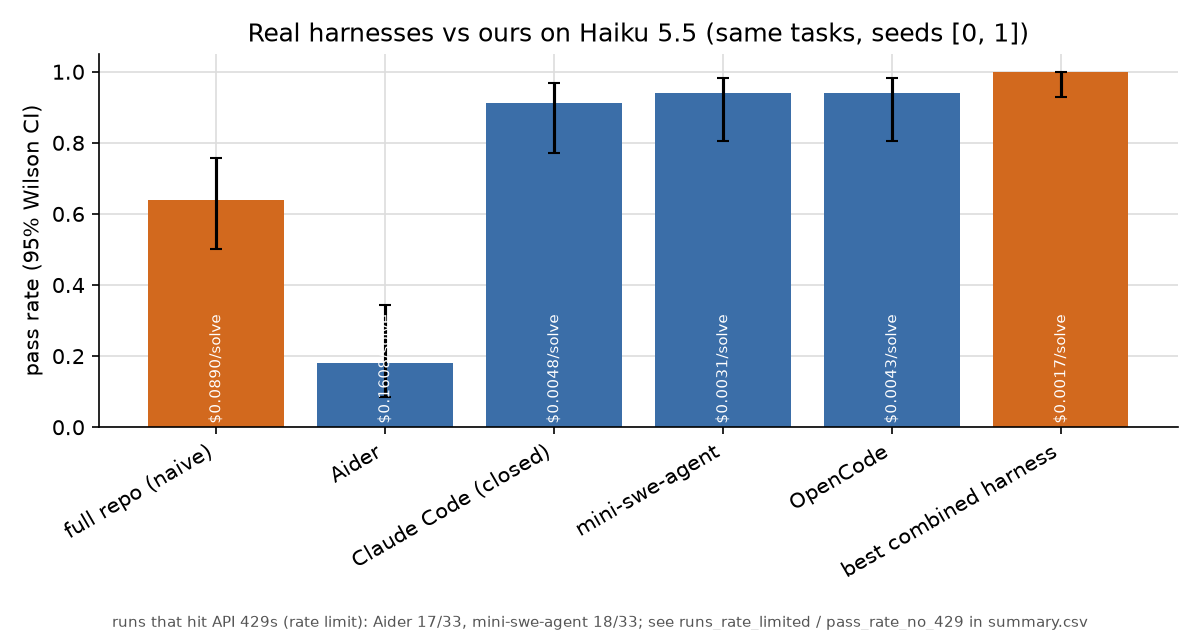
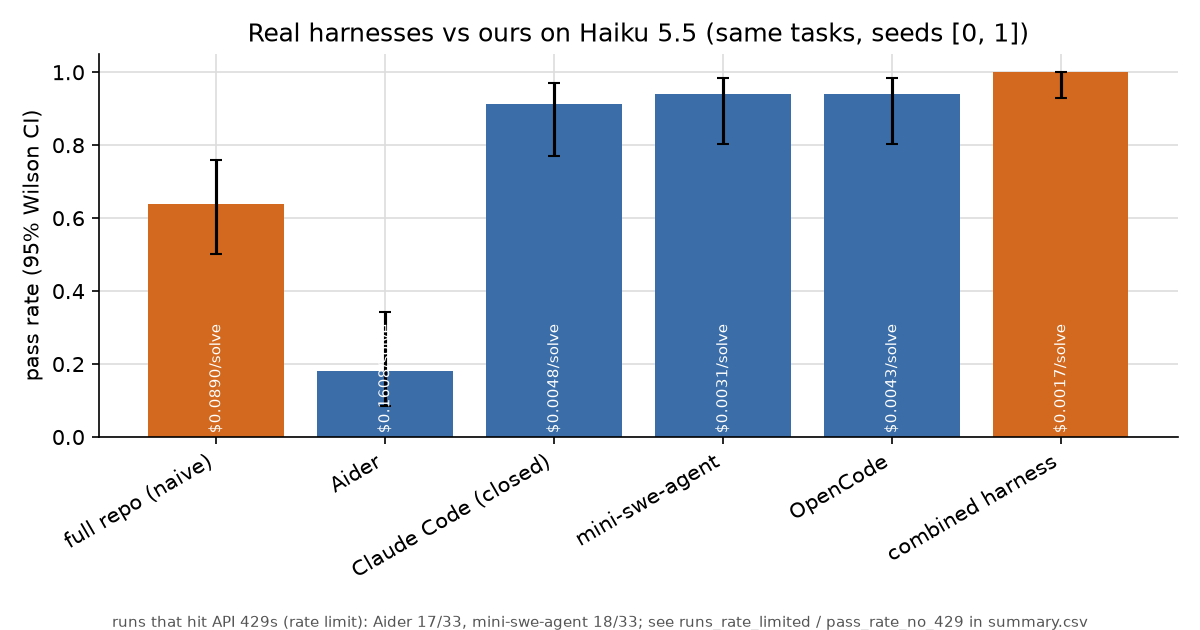
8:11 sprint: generated task fan-out numbers (fanout() from reference diffs), verified + cited JetBrains Complexity Trap, de-duplicated pareto labels, simpler headline labels; regenerated figures + article; backlog

diff --git a/cshape/report.py b/cshape/report.py
@@ -24,7 +24,7 @@ LABEL = {"full": "full repo (naive)", "touched": "touched files (oracle)", "skel
          "agentic_tools": "agentic + structured tools", "agentic_c50": "summarize @50%", "agentic_c90": "summarize @90%",
          "agentic_mask": "drop old tool output", "agentic_c50_tight": "summarize @50% (12k)", "agentic_c90_tight": "summarize @90% (12k)",
          "agentic_mask_tight": "drop old output (12k)", "agentic_skill": "refactor skill", "agentic_agentsmd": "AGENTS.md",
-         "combined": "best combined harness", "ext_claude_code": "Claude Code (closed)", "ext_opencode": "OpenCode",
+         "combined": "combined harness", "ext_claude_code": "Claude Code (closed)", "ext_opencode": "OpenCode",
          "ext_aider": "Aider", "ext_mini_swe_agent": "mini-swe-agent"}
 FAILS = ["missed_caller", "broken_import", "apply_failure", "output_truncated", "no_edit", "test_failure_other", "check_failed", "context_overflow", "error"]
 STYLE = dict(color="#3B6EA8", accent="#D2691E", grid="#DDDDDD")
@@ -219,7 +219,8 @@ def main():
         ax.set_xscale("log"); ax.set_xlabel("cost per solved task (USD, log scale)"); ax.set_ylabel("pass rate")
         ax.xaxis.set_major_formatter(FuncFormatter(lambda v, _: f"${v:g}")); ax.xaxis.set_minor_formatter(NullFormatter())
         xs = [c for _, c, _ in pts]; ax.set_xlim(min(xs) / 1.4, max(xs) * 2.2)
-        texts = [ax.text(c, p, LABEL.get(k.split(":")[-1], k), fontsize=7.5) for k, c, p in pts]
+        plabel = lambda k: LABEL.get(k.split(":")[-1], k) + (" (final run)" if k.startswith("final:") and k != "final:combined" else "")
+        texts = [ax.text(c, p, plabel(k), fontsize=7.5) for k, c, p in pts]
         try:
             from adjustText import adjust_text  # requirements.txt; de-overlaps labels with leader lines
             adjust_text(texts, x=xs, y=[p for _, _, p in pts], ax=ax, arrowprops=dict(arrowstyle="-", lw=0.4, color="0.55"))
@@ -267,7 +268,7 @@ def main():
                                    baseline_ci=[base["ci_lo"], base["ci_hi"]], best_ci=[best["ci_lo"], best["ci_hi"]],
                                    n_baseline=base["n"], n_best=best["n"])
         fig, axes = plt.subplots(1, 2, figsize=(9, 4.2))
-        names = ["naive baseline\nfull repo,\nsingle-shot", "best harness\n" + LABEL.get(best_key, best_key).replace(" + ", "\n+ ")]
+        names = ["naive:\nfull repo,\nsingle-shot", "combined harness" if best_key == "combined" else "best config:\n" + LABEL.get(best_key, best_key).replace(" + ", "\n+ ")]
         axes[0].bar(names, [base["pass_rate"], best["pass_rate"]], color=[STYLE["accent"], STYLE["color"]],
                     yerr=[[base["pass_rate"] - base["ci_lo"], best["pass_rate"] - best["ci_lo"]], [base["ci_hi"] - base["pass_rate"], best["ci_hi"] - best["pass_rate"]]], capsize=4)
         axes[0].set_ylim(0, 1.05); axes[0].set_title("pass rate (95% CI)")

diff --git a/cshape/article.py b/cshape/article.py
@@ -20,6 +20,20 @@ usd = lambda x: f"${x:.4f}" if x < 0.1 else f"${x:.2f}"
 ci = lambda v: f"{pct(v['ci_lo'])}–{pct(v['ci_hi'])}"
 is_hard = lambda task: bool(re.search(r"[-_]h\d\d", task or ""))
 
+def fanout(task_id):
+    """Size of a rename task, measured from its reference diff: files touched, matches of the task's
+    `absent` patterns on removed lines (call sites / references), and how many removed lines contain one."""
+    import yaml
+    for y in (ROOT / "tasks").glob("*/*.yaml"):
+        t = yaml.safe_load(y.read_text())
+        if isinstance(t, dict) and t.get("id") == task_id:
+            pats = [re.compile(x) for x in t["absent"]]
+            rem = [ln for ln in (y.parent / t["reference"]).read_text().splitlines() if ln.startswith("-") and not ln.startswith("---")]
+            return {"files": sum(1 for ln in (y.parent / t["reference"]).read_text().splitlines() if ln.startswith("diff --git")),
+                    "matches": sum(len(pt.findall(ln)) for ln in rem for pt in pats),
+                    "lines": sum(1 for ln in rem if any(pt.search(ln) for pt in pats))}
+    raise SystemExit(f"task not found: {task_id}")
+
 def claim(cond, msg):
     if not cond:
         raise SystemExit(f"article claim no longer holds, rewrite the prose: {msg}")
@@ -120,6 +134,10 @@ def main():
 
     # ---- grader sensitivity (code-only grading)
     ex = {}
+    for key, tid in (("h02", "tinydb-h02-rename-table-insert"), ("h03", "marshmallow-h03-rename-validationerror")):
+        f = fanout(tid); ex[f"fanout_{key}"] = f
+        for k, v in f.items():
+            V[f"fan.{key}.{k}"] = str(v)
     for st in ("full", "combined"):
         rs = [r for r in final if r["strategy"] == st]
         k = sum(map(lenient, rs)); ex[f"final_{st}_lenient_pass"] = round(k / len(rs), 4)

diff --git a/docs/CASE_STUDY.template.md b/docs/CASE_STUDY.template.md
@@ -14,7 +14,7 @@ The short version: on this kind of task, the harness matters more than I expecte
 
 ## The setup
 
-**Tasks.** {{n_tasks}} refactors on three small, pinned, pure-Python libraries: tinydb ({{tasks.tinydb}} tasks), itsdangerous ({{tasks.itsdangerous}}) and marshmallow ({{tasks.marshmallow}}). Most are renames of a class, function or method, plus a signature change, function moves and a module move. {{n_hard}} of them form a hard tier I added once the agents started hitting the ceiling. That tier has ambiguous names (renaming `Table.search` while unrelated `search` methods must survive), a method with 80 call sites across 8 files, and an exception class with 468 references across 19 files.
+**Tasks.** {{n_tasks}} refactors on three small, pinned, pure-Python libraries: tinydb ({{tasks.tinydb}} tasks), itsdangerous ({{tasks.itsdangerous}}) and marshmallow ({{tasks.marshmallow}}). Most are renames of a class, function or method, plus a signature change, function moves and a module move. {{n_hard}} of them form a hard tier I added once the agents started hitting the ceiling. That tier has ambiguous names (renaming `Table.search` while unrelated `search` methods must survive), a method with {{fan.h02.matches}} call sites across {{fan.h02.files}} files, and an exception class referenced on {{fan.h03.lines}} lines across {{fan.h03.files}} files.
 
 **Grader.** A run passes only if three things hold: the repo's tests pass, no references to the old name remain (each leftover counts as a *missed caller*), and a task-specific check passes. Every task has a reference solution that passes the grader, and the unmodified repo fails it (`python -m cshape verify`).
 
@@ -47,7 +47,7 @@ The skeleton ladder mostly shows that a bare file tree is not enough: L0 passed 
 
 Same agent loop and same prompt; only the tools changed. Raw grep/read/edit passed {{main.agentic.pass}} at {{main.agentic.cps}} per solve. With `find_references` and `rename_symbol` it passed {{main.agentic_tools.pass}} at {{main.agentic_tools.cps}}, which is {{tools.ratio}}x cheaper. The structured agent also made {{tools.callratio}}x fewer tool calls ({{main.agentic_tools.tools}} vs {{main.agentic.tools}} per run).
 
-The pass-rate gap is inside the confidence intervals over all tasks. It shows up clearly on the biggest refactor, though. On the 468-reference `ValidationError` rename, the grep agent passed {{h03.agentic}} and the structured agent passed {{h03.agentic_tools}}. Doing that rename with grep means hundreds of small edits. All {{h03.agentic.capped}} grep-agent runs hit the 25-step cap, averaging {{h03.agentic.calls}} tool calls, and the prompt grew to as much as {{h03.agentic.peak}} tokens. The structured agent finished in about {{h03.agentic_tools.calls}} calls, and its prompt never went past {{h03.agentic_tools.peak}} tokens.
+The pass-rate gap is inside the confidence intervals over all tasks. It shows up clearly on the biggest refactor, though. On the `ValidationError` rename ({{fan.h03.lines}} referencing lines), the grep agent passed {{h03.agentic}} and the structured agent passed {{h03.agentic_tools}}. Doing that rename with grep means hundreds of small edits. All {{h03.agentic.capped}} grep-agent runs hit the 25-step cap, averaging {{h03.agentic.calls}} tool calls, and the prompt grew to as much as {{h03.agentic.peak}} tokens. The structured agent finished in about {{h03.agentic_tools.calls}} calls, and its prompt never went past {{h03.agentic_tools.peak}} tokens.
 
 The cost drop is about more than fewer calls. Each grep-and-read step adds tool output that later calls carry along as context. A tool that answers "where is this used?" exactly keeps the context small and focused on the task.
 
@@ -59,7 +59,7 @@ At a 24k-token budget, compaction barely triggered (about {{main.agentic_c50.com
 
 ![Compaction at a 12k budget](../figures/arm_compaction_tight.png)
 
-At 12k the variants separate. Summarizing at 50% averaged {{main.agentic_c50_tight.comp}} compactions per run and fell to {{main.agentic_c50_tight.pass}} at {{main.agentic_c50_tight.cps}} per solve. Summarizing at 90% held {{main.agentic_c90_tight.pass}}. Simply dropping old tool outputs held {{main.agentic_mask_tight.pass}} at {{main.agentic_mask_tight.cps}}, the best result of the three at the lowest cost. That matches the pre-registered hypothesis.<!-- TODO(verify): cite JetBrains 'The Complexity Trap' (arXiv 2508.21433) here only after re-reading it; PRIOR_WORK marks it [verify]. --> Each summary rewrites the prompt prefix, so the cache hit rate collapsed to {{main.agentic_c50_tight.cache}} for summarize-at-50%, versus {{main.agentic.cache}} with no compaction. Rewriting the prefix costs real money.
+At 12k the variants separate. Summarizing at 50% averaged {{main.agentic_c50_tight.comp}} compactions per run and fell to {{main.agentic_c50_tight.pass}} at {{main.agentic_c50_tight.cps}} per solve. Summarizing at 90% held {{main.agentic_c90_tight.pass}}. Simply dropping old tool outputs held {{main.agentic_mask_tight.pass}} at {{main.agentic_mask_tight.cps}}, the best result of the three at the lowest cost. That matches the pre-registered hypothesis, and it matches JetBrains Research's [The Complexity Trap](https://arxiv.org/abs/2508.21433), which found on SWE-bench Verified, across five model configurations, that simply masking old observations matched LLM summarization's solve rate and was the cheaper of the two in four of the five. Each summary rewrites the prompt prefix, so the cache hit rate collapsed to {{main.agentic_c50_tight.cache}} for summarize-at-50%, versus {{main.agentic.cache}} with no compaction. Rewriting the prefix costs real money.
 
 ## Finding 4: a five-line skill is a cost win, not an accuracy win
 
@@ -99,13 +99,13 @@ Every failed run gets an automatic tag from the grader output and the transcript
 
 Here are four real examples from the logs.
 
-**Missed callers (naive, full repo).** Renaming `Table.insert` to `insert_document` means touching 80 call sites. In the final run (seed {{ex.h02.seed}}), the full-repo prompt left {{ex.h02.missed}} references behind. Here are the first few:
+**Missed callers (naive, full repo).** Renaming `Table.insert` to `insert_document` means touching {{fan.h02.matches}} call sites. In the final run (seed {{ex.h02.seed}}), the full-repo prompt left {{ex.h02.missed}} references behind. Here are the first few:
 
 ```
 {{ex.h02.refs}}
 ```
 
-**Giving up (L3 skeleton, 468-reference rename).** Single-shot SEARCH/REPLACE output hits the 16k output cap on the biggest rename. In one run (seed {{ex.giveup.seed}}) the model didn't attempt the edits at all. It explained why and handed back a `grep | xargs sed` one-liner for me to run instead:
+**Giving up (L3 skeleton, the {{fan.h03.lines}}-line `ValidationError` rename).** Single-shot SEARCH/REPLACE output hits the 16k output cap on the biggest rename. In one run (seed {{ex.giveup.seed}}) the model didn't attempt the edits at all. It explained why and handed back a `grep | xargs sed` one-liner for me to run instead:
 
 {{ex.giveup}}
 

diff --git a/docs/CASE_STUDY.md b/docs/CASE_STUDY.md
@@ -15,7 +15,7 @@ The short version: on this kind of task, the harness matters more than I expecte
 
 ## The setup
 
-**Tasks.** 25 refactors on three small, pinned, pure-Python libraries: tinydb (9 tasks), itsdangerous (6) and marshmallow (10). Most are renames of a class, function or method, plus a signature change, function moves and a module move. 6 of them form a hard tier I added once the agents started hitting the ceiling. That tier has ambiguous names (renaming `Table.search` while unrelated `search` methods must survive), a method with 80 call sites across 8 files, and an exception class with 468 references across 19 files.
+**Tasks.** 25 refactors on three small, pinned, pure-Python libraries: tinydb (9 tasks), itsdangerous (6) and marshmallow (10). Most are renames of a class, function or method, plus a signature change, function moves and a module move. 6 of them form a hard tier I added once the agents started hitting the ceiling. That tier has ambiguous names (renaming `Table.search` while unrelated `search` methods must survive), a method with 80 call sites across 8 files, and an exception class referenced on 468 lines across 19 files.
 
 **Grader.** A run passes only if three things hold: the repo's tests pass, no references to the old name remain (each leftover counts as a *missed caller*), and a task-specific check passes. Every task has a reference solution that passes the grader, and the unmodified repo fails it (`python -m cshape verify`).
 
@@ -48,7 +48,7 @@ The skeleton ladder mostly shows that a bare file tree is not enough: L0 passed 
 
 Same agent loop and same prompt; only the tools changed. Raw grep/read/edit passed 93% at $0.0085 per solve. With `find_references` and `rename_symbol` it passed 97% at $0.0016, which is 5.2x cheaper. The structured agent also made 4.3x fewer tool calls (9.2 vs 39.2 per run).
 
-The pass-rate gap is inside the confidence intervals over all tasks. It shows up clearly on the biggest refactor, though. On the 468-reference `ValidationError` rename, the grep agent passed 0/3 and the structured agent passed 3/3. Doing that rename with grep means hundreds of small edits. All 3 grep-agent runs hit the 25-step cap, averaging 451 tool calls, and the prompt grew to as much as 122,762 tokens. The structured agent finished in about 8 calls, and its prompt never went past 9,785 tokens.
+The pass-rate gap is inside the confidence intervals over all tasks. It shows up clearly on the biggest refactor, though. On the `ValidationError` rename (468 referencing lines), the grep agent passed 0/3 and the structured agent passed 3/3. Doing that rename with grep means hundreds of small edits. All 3 grep-agent runs hit the 25-step cap, averaging 451 tool calls, and the prompt grew to as much as 122,762 tokens. The structured agent finished in about 8 calls, and its prompt never went past 9,785 tokens.
 
 The cost drop is about more than fewer calls. Each grep-and-read step adds tool output that later calls carry along as context. A tool that answers "where is this used?" exactly keeps the context small and focused on the task.
 
@@ -60,7 +60,7 @@ At a 24k-token budget, compaction barely triggered (about 1.0 compactions per ru
 
 ![Compaction at a 12k budget](../figures/arm_compaction_tight.png)
 
-At 12k the variants separate. Summarizing at 50% averaged 6.6 compactions per run and fell to 79% at $0.0397 per solve. Summarizing at 90% held 88%. Simply dropping old tool outputs held 93% at $0.0143, the best result of the three at the lowest cost. That matches the pre-registered hypothesis.<!-- TODO(verify): cite JetBrains 'The Complexity Trap' (arXiv 2508.21433) here only after re-reading it; PRIOR_WORK marks it [verify]. --> Each summary rewrites the prompt prefix, so the cache hit rate collapsed to 10% for summarize-at-50%, versus 85% with no compaction. Rewriting the prefix costs real money.
+At 12k the variants separate. Summarizing at 50% averaged 6.6 compactions per run and fell to 79% at $0.0397 per solve. Summarizing at 90% held 88%. Simply dropping old tool outputs held 93% at $0.0143, the best result of the three at the lowest cost. That matches the pre-registered hypothesis, and it matches JetBrains Research's [The Complexity Trap](https://arxiv.org/abs/2508.21433), which found on SWE-bench Verified, across five model configurations, that simply masking old observations matched LLM summarization's solve rate and was the cheaper of the two in four of the five. Each summary rewrites the prompt prefix, so the cache hit rate collapsed to 10% for summarize-at-50%, versus 85% with no compaction. Rewriting the prefix costs real money.
 
 ## Finding 4: a five-line skill is a cost win, not an accuracy win
 
@@ -153,7 +153,7 @@ Here are four real examples from the logs.
     tests/test_tinydb.py:158: db.insert(CustomDocument({'int': 1, 'char': 'a'}))
 ```
 
-**Giving up (L3 skeleton, 468-reference rename).** Single-shot SEARCH/REPLACE output hits the 16k output cap on the biggest rename. In one run (seed 2) the model didn't attempt the edits at all. It explained why and handed back a `grep | xargs sed` one-liner for me to run instead:
+**Giving up (L3 skeleton, the 468-line `ValidationError` rename).** Single-shot SEARCH/REPLACE output hits the 16k output cap on the biggest rename. In one run (seed 2) the model didn't attempt the edits at all. It explained why and handed back a `grep | xargs sed` one-liner for me to run instead:
 
 > I can't return a complete set of edit blocks for this rename. `ValidationError` appears roughly 400 times across about 20 files, including `fields.py`, `schema.py`, `validate.py`, the test suite, and the examples. Writing every occurrence as a SEARCH/REPLACE block would mean reproducing most of the codebase, and a partial set would leave imports broken. A mechanical rename is the reliable way to do this.
 

diff --git a/BACKLOG.md b/BACKLOG.md
@@ -1,4 +1,4 @@
-<!-- last session: 8:00 AM CT article editor -->
+<!-- last session: 8:11 AM CT build sprint -->
 # Backlog: Same model, better harness (deadline 11:30 AM CT Sat Oct 10)
 
 Haiku 5.5 only · $50 hard cap (`python -m cshape spend`) · priority order: A → T → B/C → D.
@@ -126,10 +126,11 @@ Routine pickup: start with the first unchecked item in the current clock phase.
 - [x] One-command reproduction: `make reproduce` (scripts/reproduce.sh, resumable). Note `make` is not installed on the box; run `python -m cshape.audit && python -m cshape.report && python -m cshape.article` directly here.
 
 ### Article TODOs from the 8:00 editor pass (for build / data routines)
-- [ ] **[data] Pareto figure shows two points both labeled "full repo (naive)"** (main run 69% and final run 63%). Label the final-run one "full repo (naive, final run)" or drop it, so the frontier chart isn't confusing.
-- [ ] **[data] Task-size facts are typed, not generated.** The setup section says "80 call sites across 8 files" (tinydb-h02) and "468 references across 19 files" (marshmallow-h03), copied from the 2:50 AM backlog verification note. Emit these from tasks/ (count old-name matches / files in the unmodified repo) into results/article_extras.json and swap the template text for placeholders.
-- [ ] **[verify] JetBrains "The Complexity Trap" (arXiv 2508.21433)** is marked [verify] in PRIOR_WORK.md. There's an HTML-comment TODO in the compaction finding; cite it only after re-reading the abstract.
-- [ ] **[data] Headline figure x labels** repeat themselves ("best harness / best combined harness"). Simplify to "naive: full repo, single-shot" and "combined harness".
+- [x] (8:11 sprint: final-run points get " (final run)"; combined label is now "combined harness") **[data] Pareto figure shows two points both labeled "full repo (naive)"** (main run 69% and final run 63%). Label the final-run one "full repo (naive, final run)" or drop it, so the frontier chart isn't confusing.
+- [x] (8:11 sprint: `fanout()` in cshape/article.py measures them from each task's reference diff and `absent` patterns, published as `fanout_h02`/`fanout_h03` in article_extras.json; template uses `{{fan.*}}`. h02 = 80 call sites / 8 files; h03 = 468 referencing lines (472 matches) / 19 files, so the prose now says "referenced on 468 lines") **[data] Task-size facts are typed, not generated.** The setup section says "80 call sites across 8 files" (tinydb-h02) and "468 references across 19 files" (marshmallow-h03), copied from the 2:50 AM backlog verification note. Emit these from tasks/ (count old-name matches / files in the unmodified repo) into results/article_extras.json and swap the template text for placeholders.
+- [x] (8:11 sprint: re-read abstract + Table 1 on arXiv; cited in the compaction finding as matching LLM-Summary solve rate and cheaper in 4 of 5 configs (Qwen3-32B is the exception); PRIOR_WORK row updated, [verify] removed) **[verify] JetBrains "The Complexity Trap" (arXiv 2508.21433)** is marked [verify] in PRIOR_WORK.md. There's an HTML-comment TODO in the compaction finding; cite it only after re-reading the abstract.
+- [x] (8:11 sprint: now "naive: full repo, single-shot" vs "combined harness") **[data] Headline figure x labels** repeat themselves ("best harness / best combined harness"). Simplify to "naive: full repo, single-shot" and "combined harness".
+- [ ] **[editor] Wording check (from 8:11 sprint):** Finding on h03 says grep-agent runs "hit the 25-step cap, averaging 451 tool calls". Both numbers are real (multiple tool calls per step), but readers will read 451 > 25 as a contradiction; say "25 model turns, ~451 tool calls (many per turn)" or similar.
 - [ ] **[editor] Length.** Draft is ~3.5k words; next pass should tighten Findings 1 and 3 and the tools-mapping section, and check tone.
 - [ ] **[publish] Figures use relative paths (`../figures/*.png`).** Publishing to bicrick.com needs the PNGs copied alongside the post and paths rewritten; needs Patrick's site access.
 - Confirmed: FINAL COMBINED config was run (results/FINAL_DONE, 250 rows, combined_choice.json = agentic + structured tools + no compaction + skill).

diff --git a/docs/research/PRIOR_WORK.md b/docs/research/PRIOR_WORK.md
@@ -14,7 +14,7 @@ Items marked **[verify]** are from memory/abstracts and need a re-read before qu
 | LongCodeBench | https://arxiv.org/abs/2505.07897 | Code QA + bug repair at 32K→1M context; e.g. Claude 3.5 Sonnet 29%→3% | Stuffing long context; no selection strategies compared |
 | Lost in the Middle | https://arxiv.org/abs/2307.03172 | U-shaped accuracy vs position of relevant info | QA, not code |
 | Context Rot (Chroma) | https://research.trychroma.com/context-rot | 18 models degrade with input length; focused (~300 tok) ≫ full (~113k) on LongMemEval | Synthetic/QA, not code |
-| The Complexity Trap (JetBrains) | https://arxiv.org/abs/2508.21433 | Observation masking vs LLM summarization for SWE agents; masking reported competitive at lower cost **[verify]** | SWE-bench bug fixes; check models used |
+| The Complexity Trap (JetBrains) | https://arxiv.org/abs/2508.21433 | Observation masking vs LLM summarization in SWE-agent (plus an OpenHands probe); masking halves cost vs the raw agent and matches or slightly beats LLM-Summary's solve rate; summaries also limit cache reuse (verified 8:15 AM Oct 10 from the arXiv abstract and Table 1) | SWE-bench Verified bug fixes; Qwen3-32B, Qwen3-Coder 480B, Gemini 2.5 Flash; not refactors, not Haiku |
 | RefactorBench | https://arxiv.org/abs/2503.07832 | Multi-file refactoring benchmark for agents **[verify]** | Benchmark, not a context-strategy study — possible task source |
 | OpenHands condenser | https://www.all-hands.dev/blog/openhands-context-condensensation-for-more-efficient-ai-agents | Summarizing condenser: 54% vs 53%, <½ per-turn cost | One config, subset size unclear |
 | Cursor semantic search | https://cursor.com/blog/semsearch | Semantic search on/off: +12.5% avg on Context Bench; bigger effect on ≥1k-file repos | Proprietary eval; retrieval only |
